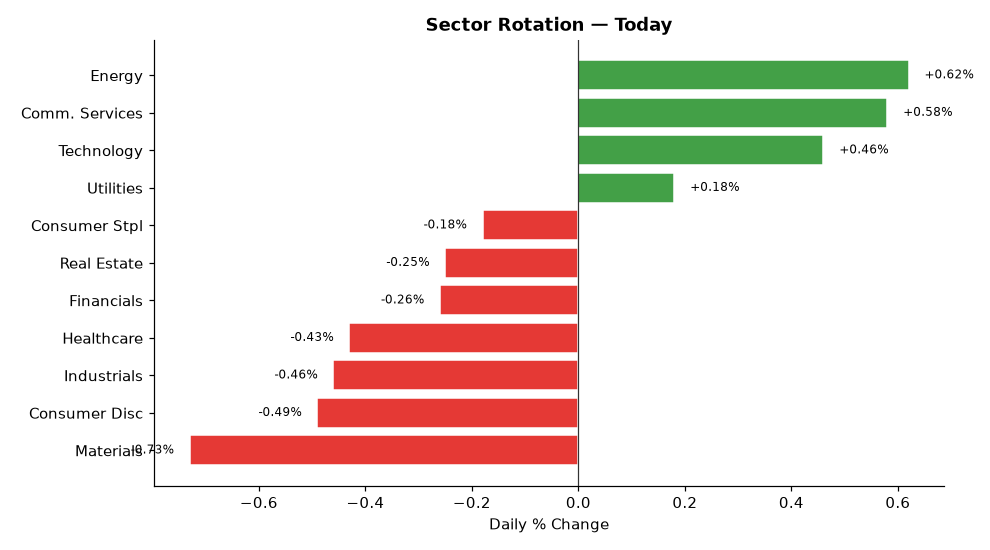
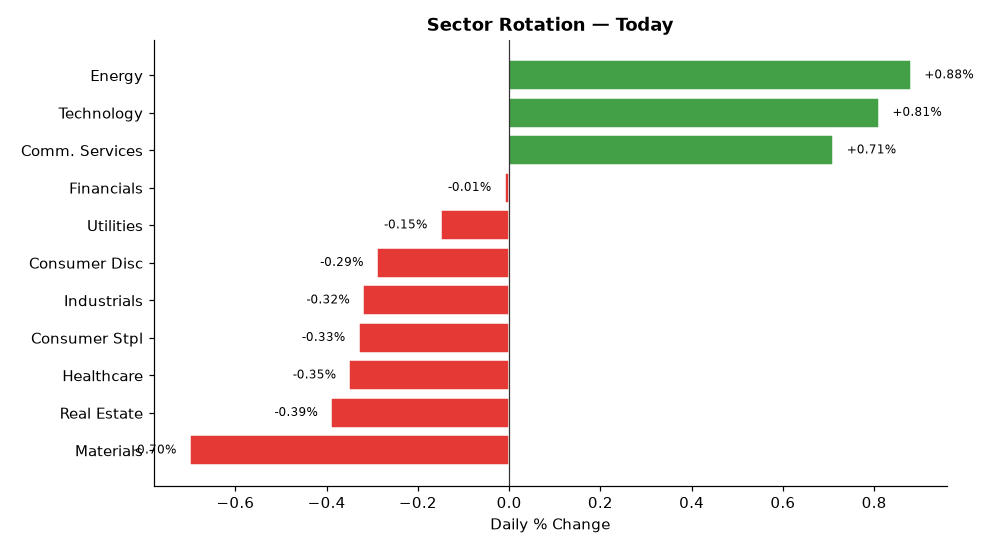
deploy: b7fadf5b06deb90e7ebb92f278722414bdd9750d

diff --git a/index.html b/index.html
@@ -4,7 +4,7 @@
   <meta charset="UTF-8">
   <meta name="viewport" content="width=device-width,initial-scale=1">
   <meta http-equiv="Cache-Control" content="no-cache,no-store,must-revalidate">
-  <title>Stock Breakout Screener — 2026-07-20 15:07</title>
+  <title>Stock Breakout Screener — 2026-07-20 15:26</title>
   <style>
     *{box-sizing:border-box;margin:0;padding:0}
     body{font-family:'Segoe UI',Arial,sans-serif;background:#f0f2f5;
@@ -34,7 +34,7 @@
 
 <div class="hdr">
   <h1>📈 Stock Breakout Screener</h1>
-  <p>Updated: 2026-07-20 15:07 UTC &nbsp;·&nbsp; Phase: Regular Market Hours &nbsp;·&nbsp;
+  <p>Updated: 2026-07-20 15:26 UTC &nbsp;·&nbsp; Phase: Regular Market Hours &nbsp;·&nbsp;
      129 stocks screened &nbsp;·&nbsp; Top 5 by conviction score</p>
 </div>
 
@@ -69,7 +69,7 @@
             </span>
           </div>
           <ul style="margin:0;padding-left:18px;font-size:13px;
-                     color:#333;line-height:1.8"><li style="margin:5px 0"><span style="background:#ffebee;color:#b71c1c;padding:2px 7px;border-radius:4px;font-size:11px;">❌</span> Volume: <b>0.3× average</b> — Above-average activity</li><li style="margin:5px 0"><span style="background:#ffebee;color:#b71c1c;padding:2px 7px;border-radius:4px;font-size:11px;">❌</span> Candle: close <b>$326.82</b> vs open <b>$333.02</b> (-1.9%) — regular market close</li><li style="margin:5px 0"><span style="background:#e8f5e9;color:#2e7d32;padding:2px 7px;border-radius:4px;font-size:11px;">✅</span> 200-Day MA: price <b>$326.82</b> vs MA <b>$278.70</b> — <b>✅ Above</b> long-term trend</li><li style="margin:5px 0"><span style="background:#e8f5e9;color:#2e7d32;padding:2px 7px;border-radius:4px;font-size:11px;">✅</span> Inst. ownership: <b>66.2%</b> · MFI: <b>86.5</b> · Market cap: <b>$4799.6B</b></li><li style="margin:5px 0"><span style="background:#e8f5e9;color:#2e7d32;padding:2px 7px;border-radius:4px;font-size:11px;">✅</span> Last similar breakout: <b>Jun 26, 2026</b> → <b>+11.8%</b> over 10 trading days</li></ul>
+                     color:#333;line-height:1.8"><li style="margin:5px 0"><span style="background:#ffebee;color:#b71c1c;padding:2px 7px;border-radius:4px;font-size:11px;">❌</span> Volume: <b>0.4× average</b> — Above-average activity</li><li style="margin:5px 0"><span style="background:#ffebee;color:#b71c1c;padding:2px 7px;border-radius:4px;font-size:11px;">❌</span> Candle: close <b>$325.01</b> vs open <b>$333.02</b> (-2.4%) — regular market close</li><li style="margin:5px 0"><span style="background:#e8f5e9;color:#2e7d32;padding:2px 7px;border-radius:4px;font-size:11px;">✅</span> 200-Day MA: price <b>$325.01</b> vs MA <b>$278.69</b> — <b>✅ Above</b> long-term trend</li><li style="margin:5px 0"><span style="background:#e8f5e9;color:#2e7d32;padding:2px 7px;border-radius:4px;font-size:11px;">✅</span> Inst. ownership: <b>66.2%</b> · MFI: <b>86.1</b> · Market cap: <b>$4773.6B</b></li><li style="margin:5px 0"><span style="background:#e8f5e9;color:#2e7d32;padding:2px 7px;border-radius:4px;font-size:11px;">✅</span> Last similar breakout: <b>Jun 26, 2026</b> → <b>+11.8%</b> over 10 trading days</li></ul>
         </div>
         <div style="background:#fff;border:1px solid #ddd;border-radius:10px;
                     padding:16px 20px;margin-bottom:12px;
@@ -86,7 +86,7 @@
             </span>
           </div>
           <ul style="margin:0;padding-left:18px;font-size:13px;
-                     color:#333;line-height:1.8"><li style="margin:5px 0"><span style="background:#ffebee;color:#b71c1c;padding:2px 7px;border-radius:4px;font-size:11px;">❌</span> Volume: <b>0.9× average</b> — Above-average activity</li><li style="margin:5px 0"><span style="background:#e8f5e9;color:#2e7d32;padding:2px 7px;border-radius:4px;font-size:11px;">✅</span> Candle: close <b>$171.78</b> vs open <b>$166.64</b> (+3.1%) — regular market close</li><li style="margin:5px 0"><span style="background:#e8f5e9;color:#2e7d32;padding:2px 7px;border-radius:4px;font-size:11px;">✅</span> 200-Day MA: price <b>$171.78</b> vs MA <b>$166.97</b> — <b>✅ Above</b> long-term trend</li><li style="margin:5px 0"><span style="background:#e8f5e9;color:#2e7d32;padding:2px 7px;border-radius:4px;font-size:11px;">✅</span> Inst. ownership: <b>85.7%</b> · MFI: <b>21.4</b> · Market cap: <b>$181.2B</b></li><li style="margin:5px 0"><span style="background:#e8f5e9;color:#2e7d32;padding:2px 7px;border-radius:4px;font-size:11px;">✅</span> Last similar breakout: <b>May 07, 2026</b> → <b>+5.4%</b> over 10 trading days</li></ul>
+                     color:#333;line-height:1.8"><li style="margin:5px 0"><span style="background:#ffebee;color:#b71c1c;padding:2px 7px;border-radius:4px;font-size:11px;">❌</span> Volume: <b>0.9× average</b> — Above-average activity</li><li style="margin:5px 0"><span style="background:#e8f5e9;color:#2e7d32;padding:2px 7px;border-radius:4px;font-size:11px;">✅</span> Candle: close <b>$171.78</b> vs open <b>$166.64</b> (+3.1%) — regular market close</li><li style="margin:5px 0"><span style="background:#e8f5e9;color:#2e7d32;padding:2px 7px;border-radius:4px;font-size:11px;">✅</span> 200-Day MA: price <b>$171.78</b> vs MA <b>$166.98</b> — <b>✅ Above</b> long-term trend</li><li style="margin:5px 0"><span style="background:#e8f5e9;color:#2e7d32;padding:2px 7px;border-radius:4px;font-size:11px;">✅</span> Inst. ownership: <b>85.7%</b> · MFI: <b>21.5</b> · Market cap: <b>$182.2B</b></li><li style="margin:5px 0"><span style="background:#e8f5e9;color:#2e7d32;padding:2px 7px;border-radius:4px;font-size:11px;">✅</span> Last similar breakout: <b>May 07, 2026</b> → <b>+5.4%</b> over 10 trading days</li></ul>
         </div>
         <div style="background:#fff;border:1px solid #ddd;border-radius:10px;
                     padding:16px 20px;margin-bottom:12px;
@@ -103,7 +103,7 @@
             </span>
           </div>
           <ul style="margin:0;padding-left:18px;font-size:13px;
-                     color:#333;line-height:1.8"><li style="margin:5px 0"><span style="background:#ffebee;color:#b71c1c;padding:2px 7px;border-radius:4px;font-size:11px;">❌</span> Volume: <b>0.8× average</b> — Above-average activity</li><li style="margin:5px 0"><span style="background:#ffebee;color:#b71c1c;padding:2px 7px;border-radius:4px;font-size:11px;">❌</span> Candle: close <b>$206.86</b> vs open <b>$205.62</b> (+0.6%) — regular market close</li><li style="margin:5px 0"><span style="background:#e8f5e9;color:#2e7d32;padding:2px 7px;border-radius:4px;font-size:11px;">✅</span> 200-Day MA: price <b>$206.86</b> vs MA <b>$168.51</b> — <b>✅ Above</b> long-term trend</li><li style="margin:5px 0"><span style="background:#e8f5e9;color:#2e7d32;padding:2px 7px;border-radius:4px;font-size:11px;">✅</span> Inst. ownership: <b>80.8%</b> · MFI: <b>75.7</b> · Market cap: <b>$83.4B</b></li></ul>
+                     color:#333;line-height:1.8"><li style="margin:5px 0"><span style="background:#ffebee;color:#b71c1c;padding:2px 7px;border-radius:4px;font-size:11px;">❌</span> Volume: <b>0.8× average</b> — Above-average activity</li><li style="margin:5px 0"><span style="background:#ffebee;color:#b71c1c;padding:2px 7px;border-radius:4px;font-size:11px;">❌</span> Candle: close <b>$206.86</b> vs open <b>$205.62</b> (+0.6%) — regular market close</li><li style="margin:5px 0"><span style="background:#e8f5e9;color:#2e7d32;padding:2px 7px;border-radius:4px;font-size:11px;">✅</span> 200-Day MA: price <b>$206.86</b> vs MA <b>$168.52</b> — <b>✅ Above</b> long-term trend</li><li style="margin:5px 0"><span style="background:#e8f5e9;color:#2e7d32;padding:2px 7px;border-radius:4px;font-size:11px;">✅</span> Inst. ownership: <b>80.8%</b> · MFI: <b>75.7</b> · Market cap: <b>$83.8B</b></li></ul>
         </div>
         <div style="background:#fff;border:1px solid #ddd;border-radius:10px;
                     padding:16px 20px;margin-bottom:12px;
@@ -111,7 +111,7 @@
           <div style="display:flex;align-items:center;gap:10px;
                       flex-wrap:wrap;margin-bottom:10px">
             <span style="font-size:22px">🟡</span>
-            <span style="font-size:19px;font-weight:700">4. VLO</span>
+            <span style="font-size:19px;font-weight:700">4. MPC</span>
             <span style="font-size:12px;color:#666">Energy</span>
             <span style="margin-left:auto;background:#1a237e;color:#fff;
                          padding:3px 12px;border-radius:12px;
@@ -120,7 +120,7 @@
             </span>
           </div>
           <ul style="margin:0;padding-left:18px;font-size:13px;
-                     color:#333;line-height:1.8"><li style="margin:5px 0"><span style="background:#ffebee;color:#b71c1c;padding:2px 7px;border-radius:4px;font-size:11px;">❌</span> Volume: <b>0.2× average</b> — Above-average activity</li><li style="margin:5px 0"><span style="background:#ffebee;color:#b71c1c;padding:2px 7px;border-radius:4px;font-size:11px;">❌</span> Candle: close <b>$311.41</b> vs open <b>$308.99</b> (+0.8%) — regular market close</li><li style="margin:5px 0"><span style="background:#e8f5e9;color:#2e7d32;padding:2px 7px;border-radius:4px;font-size:11px;">✅</span> 200-Day MA: price <b>$311.41</b> vs MA <b>$235.73</b> — <b>✅ Above</b> long-term trend</li><li style="margin:5px 0"><span style="background:#e8f5e9;color:#2e7d32;padding:2px 7px;border-radius:4px;font-size:11px;">✅</span> Inst. ownership: <b>87.8%</b> · MFI: <b>64.6</b> · Market cap: <b>$92.5B</b></li></ul>
+                     color:#333;line-height:1.8"><li style="margin:5px 0"><span style="background:#ffebee;color:#b71c1c;padding:2px 7px;border-radius:4px;font-size:11px;">❌</span> Volume: <b>0.9× average</b> — Above-average activity</li><li style="margin:5px 0"><span style="background:#ffebee;color:#b71c1c;padding:2px 7px;border-radius:4px;font-size:11px;">❌</span> Candle: close <b>$312.60</b> vs open <b>$311.73</b> (+0.3%) — regular market close</li><li style="margin:5px 0"><span style="background:#e8f5e9;color:#2e7d32;padding:2px 7px;border-radius:4px;font-size:11px;">✅</span> 200-Day MA: price <b>$312.60</b> vs MA <b>$234.21</b> — <b>✅ Above</b> long-term trend</li><li style="margin:5px 0"><span style="background:#e8f5e9;color:#2e7d32;padding:2px 7px;border-radius:4px;font-size:11px;">✅</span> Inst. ownership: <b>78.4%</b> · MFI: <b>77.6</b> · Market cap: <b>$92.7B</b></li></ul>
         </div>
         <div style="background:#fff;border:1px solid #ddd;border-radius:10px;
                     padding:16px 20px;margin-bottom:12px;
@@ -128,16 +128,16 @@
           <div style="display:flex;align-items:center;gap:10px;
                       flex-wrap:wrap;margin-bottom:10px">
             <span style="font-size:22px">🟡</span>
-            <span style="font-size:19px;font-weight:700">5. MPC</span>
+            <span style="font-size:19px;font-weight:700">5. VLO</span>
             <span style="font-size:12px;color:#666">Energy</span>
             <span style="margin-left:auto;background:#1a237e;color:#fff;
                          padding:3px 12px;border-radius:12px;
                          font-size:13px;font-weight:600">
-              11/17
+              10/17
             </span>
           </div>
           <ul style="margin:0;padding-left:18px;font-size:13px;
-                     color:#333;line-height:1.8"><li style="margin:5px 0"><span style="background:#ffebee;color:#b71c1c;padding:2px 7px;border-radius:4px;font-size:11px;">❌</span> Volume: <b>0.9× average</b> — Above-average activity</li><li style="margin:5px 0"><span style="background:#ffebee;color:#b71c1c;padding:2px 7px;border-radius:4px;font-size:11px;">❌</span> Candle: close <b>$312.60</b> vs open <b>$311.73</b> (+0.3%) — regular market close</li><li style="margin:5px 0"><span style="background:#e8f5e9;color:#2e7d32;padding:2px 7px;border-radius:4px;font-size:11px;">✅</span> 200-Day MA: price <b>$312.60</b> vs MA <b>$234.20</b> — <b>✅ Above</b> long-term trend</li><li style="margin:5px 0"><span style="background:#e8f5e9;color:#2e7d32;padding:2px 7px;border-radius:4px;font-size:11px;">✅</span> Inst. ownership: <b>78.4%</b> · MFI: <b>77.6</b> · Market cap: <b>$92.0B</b></li></ul>
+                     color:#333;line-height:1.8"><li style="margin:5px 0"><span style="background:#ffebee;color:#b71c1c;padding:2px 7px;border-radius:4px;font-size:11px;">❌</span> Volume: <b>0.2× average</b> — Above-average activity</li><li style="margin:5px 0"><span style="background:#ffebee;color:#b71c1c;padding:2px 7px;border-radius:4px;font-size:11px;">❌</span> Candle: close <b>$313.67</b> vs open <b>$308.99</b> (+1.5%) — regular market close</li><li style="margin:5px 0"><span style="background:#e8f5e9;color:#2e7d32;padding:2px 7px;border-radius:4px;font-size:11px;">✅</span> 200-Day MA: price <b>$313.67</b> vs MA <b>$235.75</b> — <b>✅ Above</b> long-term trend</li><li style="margin:5px 0"><span style="background:#e8f5e9;color:#2e7d32;padding:2px 7px;border-radius:4px;font-size:11px;">✅</span> Inst. ownership: <b>87.8%</b> · MFI: <b>64.7</b> · Market cap: <b>$93.1B</b></li></ul>
         </div>
 
 
@@ -169,17 +169,17 @@
         <tr>
           <td style="font-weight:700;text-align:left;padding-left:10px">
             🟡 AAPL</td>
-          <td style="background:#ffcdd2">0.3×</td>
-          <td style="background:#ffcdd2">-1.9%</td>
+          <td style="background:#ffcdd2">0.4×</td>
+          <td style="background:#ffcdd2">-2.4%</td>
           <td style="background:#c8e6c9">
             ▲ Above</td>
           <td style="background:#c8e6c9">
             66.2%</td>
           <td style="background:#c8e6c9">
-            86.5</td>
+            86.1</td>
           <td style="background:#fff9c4">Technology</td>
           <td style="background:#c8e6c9">
-            131.7%</td>
+            163.2%</td>
           <td style="background:#c8e6c9">
             +11.8%</td>
           <td style="font-weight:800;font-size:15px">11/17</td>
@@ -194,10 +194,10 @@
           <td style="background:#c8e6c9">
             85.7%</td>
           <td style="background:#ffcdd2">
-            21.4</td>
+            21.5</td>
           <td style="background:#fff9c4">Technology</td>
           <td style="background:#c8e6c9">
-            123.2%</td>
+            123.1%</td>
           <td style="background:#c8e6c9">
             +5.4%</td>
           <td style="font-weight:800;font-size:15px">11/17</td>
@@ -215,25 +215,7 @@
             75.7</td>
           <td style="background:#c8e6c9">Energy</td>
           <td style="background:#c8e6c9">
-            70.8%</td>
-          <td style="background:#ffcdd2">
-            N/A</td>
-          <td style="font-weight:800;font-size:15px">11/17</td>
-        </tr>
-        <tr>
-          <td style="font-weight:700;text-align:left;padding-left:10px">
-            🟡 VLO</td>
-          <td style="background:#ffcdd2">0.2×</td>
-          <td style="background:#ffcdd2">+0.8%</td>
-          <td style="background:#c8e6c9">
-            ▲ Above</td>
-          <td style="background:#c8e6c9">
-            87.8%</td>
-          <td style="background:#c8e6c9">
-            64.6</td>
-          <td style="background:#c8e6c9">Energy</td>
-          <td style="background:#c8e6c9">
-            91.2%</td>
+            76.3%</td>
           <td style="background:#ffcdd2">
             N/A</td>
           <td style="font-weight:800;font-size:15px">11/17</td>
@@ -251,10 +233,28 @@
             77.6</td>
           <td style="background:#c8e6c9">Energy</td>
           <td style="background:#c8e6c9">
-            74.0%</td>
+            52.0%</td>
           <td style="background:#ffcdd2">
             N/A</td>
           <td style="font-weight:800;font-size:15px">11/17</td>
+        </tr>
+        <tr>
+          <td style="font-weight:700;text-align:left;padding-left:10px">
+            🟡 VLO</td>
+          <td style="background:#ffcdd2">0.2×</td>
+          <td style="background:#ffcdd2">+1.5%</td>
+          <td style="background:#c8e6c9">
+            ▲ Above</td>
+          <td style="background:#c8e6c9">
+            87.8%</td>
+          <td style="background:#c8e6c9">
+            64.7</td>
+          <td style="background:#c8e6c9">Energy</td>
+          <td style="background:#fff9c4">
+            19.0%</td>
+          <td style="background:#ffcdd2">
+            N/A</td>
+          <td style="font-weight:800;font-size:15px">10/17</td>
         </tr>
 </table>
 </div>
@@ -278,57 +278,57 @@
         <tr>
           <td style="text-align:left;padding-left:10px;font-weight:600">
             #1 Energy</td>
-          <td style="background:#e8f5e9;color:#2e7d32;font-weight:700">+0.62%</td>
+          <td style="background:#e8f5e9;color:#2e7d32;font-weight:700">+0.88%</td>
         </tr>
         <tr>
           <td style="text-align:left;padding-left:10px;font-weight:600">
-            #2 Comm. Services</td>
-          <td style="background:#e8f5e9;color:#2e7d32;font-weight:700">+0.58%</td>
+            #2 Technology</td>
+          <td style="background:#e8f5e9;color:#2e7d32;font-weight:700">+0.81%</td>
         </tr>
         <tr>
           <td style="text-align:left;padding-left:10px;font-weight:600">
-            #3 Technology</td>
-          <td style="background:#e8f5e9;color:#2e7d32;font-weight:700">+0.46%</td>
+            #3 Comm. Services</td>
+          <td style="background:#e8f5e9;color:#2e7d32;font-weight:700">+0.71%</td>
         </tr>
         <tr>
           <td style="text-align:left;padding-left:10px;font-weight:600">
-            #4 Utilities</td>
-          <td style="background:#e8f5e9;color:#2e7d32;font-weight:700">+0.18%</td>
+            #4 Financials</td>
+          <td style="background:#ffebee;color:#c62828;font-weight:700">-0.01%</td>
         </tr>
         <tr>
           <td style="text-align:left;padding-left:10px;font-weight:600">
-            #5 Consumer Stpl</td>
-          <td style="background:#ffebee;color:#c62828;font-weight:700">-0.18%</td>
+            #5 Utilities</td>
+          <td style="background:#ffebee;color:#c62828;font-weight:700">-0.15%</td>
         </tr>
         <tr>
           <td style="text-align:left;padding-left:10px;font-weight:600">
-            #6 Real Estate</td>
-          <td style="background:#ffebee;color:#c62828;font-weight:700">-0.25%</td>
+            #6 Consumer Disc</td>
+          <td style="background:#ffebee;color:#c62828;font-weight:700">-0.29%</td>
         </tr>
         <tr>
           <td style="text-align:left;padding-left:10px;font-weight:600">
-            #7 Financials</td>
-          <td style="background:#ffebee;color:#c62828;font-weight:700">-0.26%</td>
+            #7 Industrials</td>
+          <td style="background:#ffebee;color:#c62828;font-weight:700">-0.32%</td>
         </tr>
         <tr>
           <td style="text-align:left;padding-left:10px;font-weight:600">
-            #8 Healthcare</td>
-          <td style="background:#ffebee;color:#c62828;font-weight:700">-0.43%</td>
+            #8 Consumer Stpl</td>
+          <td style="background:#ffebee;color:#c62828;font-weight:700">-0.33%</td>
         </tr>
         <tr>
           <td style="text-align:left;padding-left:10px;font-weight:600">
-            #9 Industrials</td>
-          <td style="background:#ffebee;color:#c62828;font-weight:700">-0.46%</td>
+            #9 Healthcare</td>
+          <td style="background:#ffebee;color:#c62828;font-weight:700">-0.35%</td>
         </tr>
         <tr>
           <td style="text-align:left;padding-left:10px;font-weight:600">
-            #10 Consumer Disc</td>
-          <td style="background:#ffebee;color:#c62828;font-weight:700">-0.49%</td>
+            #10 Real Estate</td>
+          <td style="background:#ffebee;color:#c62828;font-weight:700">-0.39%</td>
         </tr>
         <tr>
           <td style="text-align:left;padding-left:10px;font-weight:600">
             #11 Materials</td>
-          <td style="background:#ffebee;color:#c62828;font-weight:700">-0.73%</td>
+          <td style="background:#ffebee;color:#c62828;font-weight:700">-0.70%</td>
         </tr>
     </table>
   </div>
@@ -367,7 +367,7 @@
         <li><b>Scoring weights:</b>
             Inst.Own(3) · Sector(3) · Volume(2) · Breakout(2) ·
             MA200(2) · MFI(2) · History(2) · IV(1) = 17pts max</li>
-        <li><b>Run time:</b> 2026-07-20 15:07 UTC — Market phase: Regular Market Hours</li>
+        <li><b>Run time:</b> 2026-07-20 15:26 UTC — Market phase: Regular Market Hours</li>
       </ul>
     </div>
 
